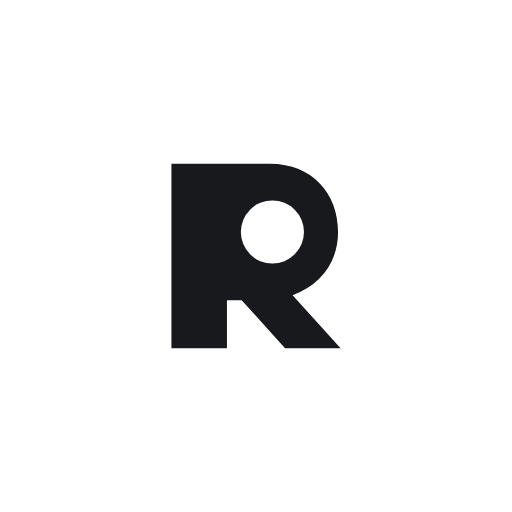
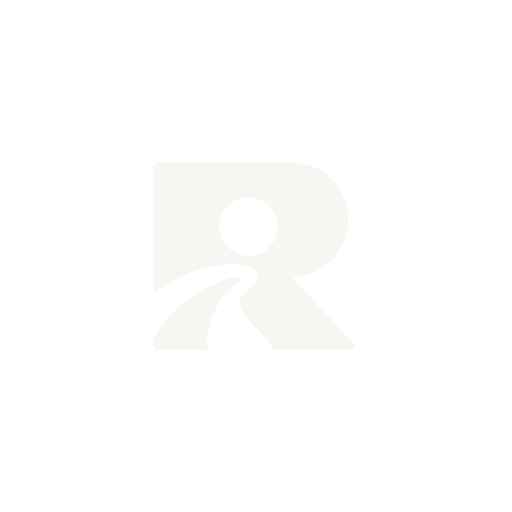
Use the final Rafiq mark: R with a head counter and a road leg
The chosen logo (Orbit / Turn) replaces the Counter Head R everywhere:
app icon, Android adaptive icon and monochrome, web favicon, the intro
(graphite collapses into the new R, then the road sweeps out), a small
mark beside the wordmark on Welcome, and the admin/share site header and
favicon. Source SVGs live in assets/brand/.

Changed region(s): [[0.3125, 0.3125, 0.6875, 0.6875]]

diff --git a/src/components/intro-points.ts b/src/components/intro-points.ts
@@ -1,8 +1,11 @@
-// The outline of the Counter Head R, sampled into 240 points (60 per side),
-// in the 200x200 mark box of the logo studio. The intro morphs the four
-// screen edges onto these four runs of points, so the screen "collapses" into the R.
-// Generated from the studio's default mark (stem 44, bowl 172, head r 25 at 120,84).
-export const R_POINTS: readonly number[] = [40,30,42.73,30,45.46,30,48.19,30,50.93,30,53.66,30,56.39,30,59.12,30,61.85,30,64.58,30,67.31,30,70.04,30,72.78,30,75.51,30,78.24,30,80.97,30,83.7,30,86.43,30,89.16,30,91.9,30,94.63,30,97.36,30,100.09,30,102.82,30,105.55,30,108.28,30,111.02,30,113.75,30,116.48,30,119.21,30.01,121.94,30.11,124.66,30.32,127.37,30.64,130.07,31.09,132.74,31.65,135.38,32.35,137.99,33.17,140.54,34.12,143.05,35.21,145.49,36.43,147.87,37.79,150.16,39.27,152.36,40.88,154.47,42.62,156.48,44.47,158.38,46.43,160.16,48.5,161.82,50.67,163.36,52.92,164.77,55.26,166.06,57.67,167.22,60.14,168.24,62.67,169.14,65.25,169.92,67.87,170.57,70.53,171.09,73.21,171.49,75.91,171.78,78.62,171.94,81.35,172,84.08,171.97,86.12,171.86,88.16,171.69,90.19,171.44,92.22,171.11,94.24,170.71,96.24,170.23,98.22,169.67,100.19,169.04,102.13,168.33,104.04,167.53,105.92,166.67,107.77,165.72,109.58,164.7,111.35,163.61,113.07,162.44,114.75,161.21,116.38,159.91,117.95,158.55,119.47,157.12,120.93,155.64,122.34,154.11,123.69,152.52,124.97,150.89,126.2,149.21,127.37,147.5,128.47,145.74,129.51,143.95,130.49,142.13,131.41,140.28,132.27,138.4,133.07,136.5,133.82,137.01,135.12,138.38,136.64,139.75,138.15,141.12,139.66,142.49,141.18,143.86,142.69,145.23,144.21,146.6,145.72,147.97,147.23,149.34,148.75,150.71,150.26,152.08,151.78,153.45,153.29,154.82,154.8,156.19,156.32,157.56,157.83,158.93,159.35,160.3,160.86,161.67,162.37,163.04,163.89,164.41,165.4,165.78,166.92,167.15,168.43,168.52,169.94,169.89,171.46,171.26,172.97,172.63,174.49,174,176,170.85,176,167.7,176,164.56,176,161.41,176,158.26,176,155.11,176,151.97,176,148.82,176,145.67,176,142.52,176,139.37,176,136.23,176,133.08,176,129.95,175.95,127.84,173.62,125.73,171.28,123.62,168.95,121.51,166.61,119.4,164.28,117.28,161.94,115.17,159.61,113.06,157.28,110.95,154.94,108.84,152.61,106.72,150.27,104.61,147.94,102.5,145.6,100.39,143.27,98.28,140.94,96.16,138.6,93.28,138,90.14,138,86.99,138,84,138.16,84,141.31,84,144.45,84,147.6,84,150.75,84,153.9,84,157.05,84,160.19,84,163.34,84,166.49,84,169.64,84,172.78,84,175.93,80.92,176,77.77,176,74.63,176,71.48,176,68.33,176,65.18,176,62.03,176,58.89,176,55.74,176,52.59,176,49.44,176,46.3,176,43.15,176,40,176,40,173.57,40,171.13,40,168.7,40,166.27,40,163.83,40,161.4,40,158.97,40,156.53,40,154.1,40,151.67,40,149.23,40,146.8,40,144.37,40,141.93,40,139.5,40,137.07,40,134.63,40,132.2,40,129.77,40,127.33,40,124.9,40,122.47,40,120.03,40,117.6,40,115.17,40,112.73,40,110.3,40,107.87,40,105.43,40,103,40,100.57,40,98.13,40,95.7,40,93.27,40,90.83,40,88.4,40,85.97,40,83.53,40,81.1,40,78.67,40,76.23,40,73.8,40,71.37,40,68.93,40,66.5,40,64.07,40,61.63,40,59.2,40,56.77,40,54.33,40,51.9,40,49.47,40,47.03,40,44.6,40,42.17,40,39.73,40,37.3,40,34.87,40,32.43];
+// The outline of the Rafiq R (body only, without the road), sampled into 240 points
+// (60 per side), in the 200x200 mark box the intro uses. The intro morphs the four
+// screen edges onto these four runs (top, right, bottom/underside, stem), so the
+// screen "collapses" into the R. Generated from assets/brand/rafiq-mark.svg.
+export const R_POINTS: readonly number[] = [31.63,38.99,31.86,37.02,32.76,35.27,34.4,34.18,36.34,33.82,38.33,33.81,40.16,33.81,42.15,33.81,44.13,33.81,46.12,33.81,48.11,33.81,50.24,33.81,52.23,33.81,54.22,33.81,56.2,33.81,58.19,33.81,60.02,33.81,62.01,33.81,63.99,33.81,65.98,33.81,67.96,33.81,70.1,33.81,72.09,33.81,74.07,33.81,76.06,33.81,78.05,33.81,80.03,33.81,81.87,33.81,83.85,33.81,85.84,33.81,87.82,33.81,89.81,33.81,91.95,33.81,93.93,33.81,95.92,33.81,97.91,33.81,99.74,33.81,101.72,33.81,103.71,33.81,105.7,33.81,107.68,33.81,109.67,33.81,111.81,33.81,113.79,33.81,115.78,33.81,117.76,33.81,119.75,33.81,121.74,33.81,123.72,33.81,125.55,33.81,127.54,33.81,129.53,33.81,131.66,33.83,133.65,33.92,135.63,34.07,137.6,34.3,139.56,34.61,141.36,34.96,143.3,35.41,145.21,35.95,147.1,36.56,150.09,37.72,152.85,39.03,155.51,40.53,158.05,42.22,160.58,44.19,162.84,46.25,164.93,48.48,166.85,50.85,168.57,53.37,170.17,56.15,171.49,58.91,172.59,61.76,173.48,64.68,174.19,67.81,174.65,70.83,174.9,73.87,174.94,76.93,174.78,79.98,174.37,83.16,173.76,86.15,172.93,89.09,171.88,91.96,170.63,94.74,169.09,97.56,167.43,100.13,165.6,102.57,163.59,104.87,161.31,107.13,159,109.12,156.55,110.95,153.99,112.61,151.32,114.11,148.43,115.48,145.59,116.61,142.69,117.56,139.73,118.33,136.58,118.95,134.31,119.64,136.39,121.87,138.48,124.11,140.56,126.34,142.75,128.68,144.83,130.92,146.92,133.15,149,135.38,151.09,137.62,153.28,139.96,155.36,142.19,157.45,144.43,159.53,146.66,161.72,149.01,163.81,151.24,165.89,153.47,167.98,155.7,170.06,157.94,172.25,160.28,174.34,162.52,176.42,164.75,178.48,167,179.89,169.86,177.72,172.07,174.21,172.19,170.54,172.19,167.03,172.19,163.36,172.19,159.85,172.19,156.18,172.19,152.67,172.19,149,172.19,145.49,172.19,141.82,172.19,138.31,172.19,134.65,172.19,131.13,172.19,127.47,172.19,123.95,172.19,120.29,172.19,118.4,169.23,116.21,166.29,113.97,163.58,111.52,160.85,109.11,158.3,106.56,155.67,104.12,153.14,101.63,150.45,99.35,147.77,97.22,144.79,95.63,141.67,94.85,138.1,95.52,134.68,97.31,131.67,99.7,128.89,102.18,126.4,104.78,123.82,107.07,121.15,108.64,117.87,107.93,114.52,105.27,112.04,102.08,110.58,98.54,109.66,95.06,109.16,91.4,108.93,87.89,108.92,84.23,109.11,80.73,109.46,77.11,110,73.66,110.65,70.09,111.49,66.7,112.42,63.21,113.53,59.9,114.73,56.5,116.1,53.29,117.53,50,119.13,46.88,120.76,43.69,122.56,40.67,124.36,37.57,126.31,34.64,128.25,31.75,130.25,31.63,128.96,31.63,127.44,31.63,125.91,31.63,124.38,31.63,122.85,31.63,121.32,31.63,119.8,31.63,118.27,31.63,116.74,31.63,115.21,31.63,113.69,31.63,112.16,31.63,110.63,31.63,109.1,31.63,107.58,31.63,106.05,31.63,104.52,31.63,102.99,31.63,101.47,31.63,99.94,31.63,98.41,31.63,96.88,31.63,95.36,31.63,93.83,31.63,92.3,31.63,90.77,31.63,89.25,31.63,87.72,31.63,86.19,31.63,84.66,31.63,83.29,31.63,81.76,31.63,80.23,31.63,78.7,31.63,77.18,31.63,75.65,31.63,74.12,31.63,72.59,31.63,71.07,31.63,69.54,31.63,68.01,31.63,66.48,31.63,64.96,31.63,63.43,31.63,61.9,31.63,60.37,31.63,58.85,31.63,57.32,31.63,55.79,31.63,54.26,31.63,52.74,31.63,51.21,31.63,49.68,31.63,48.15,31.63,46.63,31.63,45.1,31.63,43.57,31.63,42.04,31.63,40.52];
 
 /** The R's counter (the driver's head): centre and radius in the same box. */
-export const R_HEAD = { x: 120, y: 84, r: 25 } as const;
+export const R_HEAD = { x: 101.38, y: 81.29, r: 21.6 } as const;
+
+/** The road beside the leg, in the same box: commands and absolute x,y numbers. */
+export const R_ROAD: readonly (string | number)[] = ["M",35.67,172.19,"Q",30.27,172.19,31.63,164.54,"C",39.73,146.09,62.67,126.74,90.58,118.64,"Q",97.1,117.29,96.42,120.44,"C",82.47,129.44,69.88,146.99,71.22,172.19,"Z"];

diff --git a/src/app/intro.tsx b/src/app/intro.tsx
@@ -1,8 +1,8 @@
 // Intro ("/intro"): the first thing a signed-out person sees, right after the graphite splash.
 // A driver at the wheel, drawn in negative space on graphite; then the graphite
-// springs into the R and the driver's head becomes its counter. Then the name,
-// the line, and the two ways in fade up.
-// Motion and numbers come from the Counter Head studio and the Intro board.
+// springs into the R, the driver's head becomes its counter, and the road
+// sweeps out beside the leg. Then the name, the line, and the two ways in fade up.
+// Motion and numbers come from the logo studio and the Intro board.
 
 import { router } from 'expo-router';
 import { StatusBar } from 'expo-status-bar';
@@ -18,7 +18,7 @@ import Animated, {
 } from 'react-native-reanimated';
 import Svg, { Circle, Path, Rect } from 'react-native-svg';
 
-import { R_HEAD, R_POINTS } from '@/components/intro-points';
+import { R_HEAD, R_POINTS, R_ROAD } from '@/components/intro-points';
 import { Button, useFont } from '@/components/ui';
 import { useT } from '@/lib/session';
 import { colors, space } from '@/theme/tokens';
@@ -36,6 +36,7 @@ const END = C + UI_DELAY + 900;
 const MORPH = { k: 140, c: 24 };
 const HEAD = { k: 200, c: 15 };
 const BOUNCE = { k: 300, c: 9, amount: 0.12 };
+const ROAD = { delay: 220, k: 170, c: 20, from: 14 }; // the road sweeps out after the collapse
 
 // The scene is 390 units wide (the board), as tall as the screen needs.
 const W = 390;
@@ -181,6 +182,30 @@ export default function Intro() {
     };
   });
 
+  // The road: slides out along its own direction (from the tip toward the base) and fades in.
+  const roadProps = useAnimatedProps(() => {
+    const tt = time.value;
+    const q = spring(tt - C - ROAD.delay, ROAD.k, ROAD.c);
+    const b = 1 - BOUNCE.amount * impulse(tt - C - 260, BOUNCE.k, BOUNCE.c);
+    const off = (1 - q) * ROAD.from;
+    let d = '';
+    let n = 0;
+    for (let i = 0; i < R_ROAD.length; i++) {
+      const v = R_ROAD[i];
+      if (typeof v === 'string') {
+        d += v;
+        n = 0;
+        continue;
+      }
+      const isX = n % 2 === 0;
+      const scene = isX ? PL.x + v * PL.s + off * 0.6 : PL.y + v * PL.s - off * 0.8;
+      const c = isX ? CX : CY;
+      d += (isX ? (n ? ' ' : '') : ',') + (c + (scene - c) * b).toFixed(1);
+      n++;
+    }
+    return { d, opacity: clamp((tt - C - ROAD.delay) / 260) };
+  });
+
   const uiStyle = useAnimatedStyle(() => {
     const u = outCubic(clamp((time.value - C - UI_DELAY) / 600));
     return { opacity: u, transform: [{ translateY: (1 - u) * 14 }] };
@@ -198,6 +223,7 @@ export default function Intro() {
       >
         <Rect width={W} height={H} fill={colors.surface} />
         <AnimatedPath animatedProps={inkProps} fill={colors.ink} />
+        <AnimatedPath animatedProps={roadProps} fill={colors.ink} />
         <AnimatedPath animatedProps={bodyProps} fill={colors.surface} />
         <AnimatedPath animatedProps={wheelProps} fill={colors.surface} />
         <AnimatedCircle animatedProps={headProps} fill={colors.surface} />

diff --git a/admin/share.html b/admin/share.html
@@ -5,6 +5,7 @@
     <meta name="viewport" content="width=device-width, initial-scale=1" />
     <meta name="robots" content="noindex" />
     <title>رفيق · Rafiq</title>
+    <link rel="icon" type="image/svg+xml" href="/favicon.svg" />
     <link rel="preconnect" href="https://fonts.googleapis.com" />
     <link href="https://fonts.googleapis.com/css2?family=IBM+Plex+Sans:wght@400;500;700&family=IBM+Plex+Sans+Arabic:wght@400;500;700&display=swap" rel="stylesheet" />
     <link rel="stylesheet" href="/src/style.css" />
@@ -12,7 +13,7 @@
   </head>
   <body>
     <header class="top">
-      <div class="brand"><span class="mark">R</span> <span id="brand-name">رفيق</span></div>
+      <div class="brand"><svg class="mark" viewBox="42 57 670 615" aria-hidden="true"><path fill="currentColor" fill-rule="evenodd" d="M42 80Q42 57 65 57L480 57C600 57 679 140 679 245C679 345 602 425 497 437L694 648Q712 672 684 672L436 672C400 610 324 565 323 520C322 482 392 452 384 422C376 395 322 386 262 393C180 403 110 438 42 486ZM448 268A96 96 0 1 0 256 268A96 96 0 1 0 448 268Z"/><path fill="currentColor" d="M60 672Q36 672 42 638C78 556 180 470 304 434Q333 428 330 442C268 482 212 560 218 672Z"/></svg> <span id="brand-name">رفيق</span></div>
       <button id="lang" class="link">English</button>
     </header>
     <main id="app" class="share"></main>

diff --git a/admin/index.html b/admin/index.html
@@ -5,13 +5,14 @@
     <meta name="viewport" content="width=device-width, initial-scale=1" />
     <meta name="robots" content="noindex" />
     <title>Rafiq Admin</title>
+    <link rel="icon" type="image/svg+xml" href="/favicon.svg" />
     <link rel="preconnect" href="https://fonts.googleapis.com" />
     <link href="https://fonts.googleapis.com/css2?family=IBM+Plex+Sans:wght@400;500;700&family=IBM+Plex+Sans+Arabic:wght@400;500;700&display=swap" rel="stylesheet" />
     <link rel="stylesheet" href="/src/style.css" />
   </head>
   <body>
     <header class="top">
-      <div class="brand"><span class="mark">R</span> Rafiq <span class="muted">Admin</span></div>
+      <div class="brand"><svg class="mark" viewBox="42 57 670 615" aria-hidden="true"><path fill="currentColor" fill-rule="evenodd" d="M42 80Q42 57 65 57L480 57C600 57 679 140 679 245C679 345 602 425 497 437L694 648Q712 672 684 672L436 672C400 610 324 565 323 520C322 482 392 452 384 422C376 395 322 386 262 393C180 403 110 438 42 486ZM448 268A96 96 0 1 0 256 268A96 96 0 1 0 448 268Z"/><path fill="currentColor" d="M60 672Q36 672 42 638C78 556 180 470 304 434Q333 428 330 442C268 482 212 560 218 672Z"/></svg> Rafiq <span class="muted">Admin</span></div>
       <button id="sign-out" class="link" hidden>Sign out</button>
     </header>
     <main id="app"></main>

diff --git a/src/components/rafiq-mark.tsx b/src/components/rafiq-mark.tsx
@@ -1,0 +1,23 @@
+// The Rafiq mark ("Orbit / Turn", chosen Nov 8): a bold R whose counter is a head
+// and whose leg turns into a road sweeping out. Source SVGs live in assets/brand/.
+// Two shapes: the body (with the round counter cut out) and the road beside it.
+
+import Svg, { Path } from 'react-native-svg';
+
+import { colors } from '@/theme/tokens';
+
+export const MARK_VIEWBOX = '42 57 670 615';
+export const MARK_RATIO = 670 / 615; // width / height
+export const MARK_BODY =
+  'M42 80Q42 57 65 57L480 57C600 57 679 140 679 245C679 345 602 425 497 437L694 648Q712 672 684 672L436 672C400 610 324 565 323 520C322 482 392 452 384 422C376 395 322 386 262 393C180 403 110 438 42 486ZM448 268A96 96 0 1 0 256 268A96 96 0 1 0 448 268Z';
+export const MARK_ROAD = 'M60 672Q36 672 42 638C78 556 180 470 304 434Q333 428 330 442C268 482 212 560 218 672Z';
+
+/** The mark at a given height; width follows the mark's proportions. */
+export function RafiqMark({ size = 24, color = colors.ink }: { size?: number; color?: string }) {
+  return (
+    <Svg width={size * MARK_RATIO} height={size} viewBox={MARK_VIEWBOX} accessible={false}>
+      <Path d={MARK_BODY} fill={color} fillRule="evenodd" />
+      <Path d={MARK_ROAD} fill={color} />
+    </Svg>
+  );
+}

diff --git a/src/app/welcome.tsx b/src/app/welcome.tsx
@@ -34,6 +34,7 @@ import Svg, { Circle, Path } from 'react-native-svg';
 
 import { Icon, type IconName } from '@/components/icon';
 import { PsPlate } from '@/components/ps-plate';
+import { RafiqMark } from '@/components/rafiq-mark';
 import { Body, Button, Screen, TopBar, ltr, useFont } from '@/components/ui';
 import { selectFeel } from '@/lib/haptics';
 import { useSession, useT } from '@/lib/session';
@@ -74,6 +75,9 @@ export default function Welcome() {
         <TopBar
           start={
             <View style={styles.wordmark}>
+              <View style={styles.markWrap}>
+                <RafiqMark size={20} />
+              </View>
               <Text style={[styles.wordmarkAr, { fontFamily: fonts.ar.bold }]}>رفيق</Text>
               <Text style={[styles.wordmarkEn, { fontFamily: fonts.en.medium }]}>Rafiq</Text>
             </View>
@@ -468,6 +472,7 @@ function WayButton({
 
 const styles = StyleSheet.create({
   wordmark: { flexDirection: 'row', alignItems: 'baseline', gap: 8 },
+  markWrap: { alignSelf: 'center' },
   wordmarkAr: { fontSize: 22, color: colors.ink },
   wordmarkEn: { fontSize: 13, color: colors.inkSecondary },
   langButton: {

diff --git a/admin/src/style.css b/admin/src/style.css
@@ -24,7 +24,7 @@ body { margin: 0; background: var(--surface); }
   position: sticky; top: 0; background: rgba(247, 246, 243, 0.85); backdrop-filter: blur(12px); z-index: 1;
 }
 .brand { font-weight: 700; font-size: 18px; display: flex; align-items: center; gap: 8px; }
-.mark { width: 28px; height: 28px; border-radius: 50%; background: var(--ink); color: #fff; display: grid; place-items: center; font-size: 15px; }
+.mark { height: 22px; width: auto; display: block; color: var(--ink); }
 .muted { color: var(--ink-2); font-weight: 400; }
 main { max-width: 880px; margin: 0 auto; padding: 24px 20px 64px; }
 h1 { font-size: 28px; margin: 8px 0 4px; }
